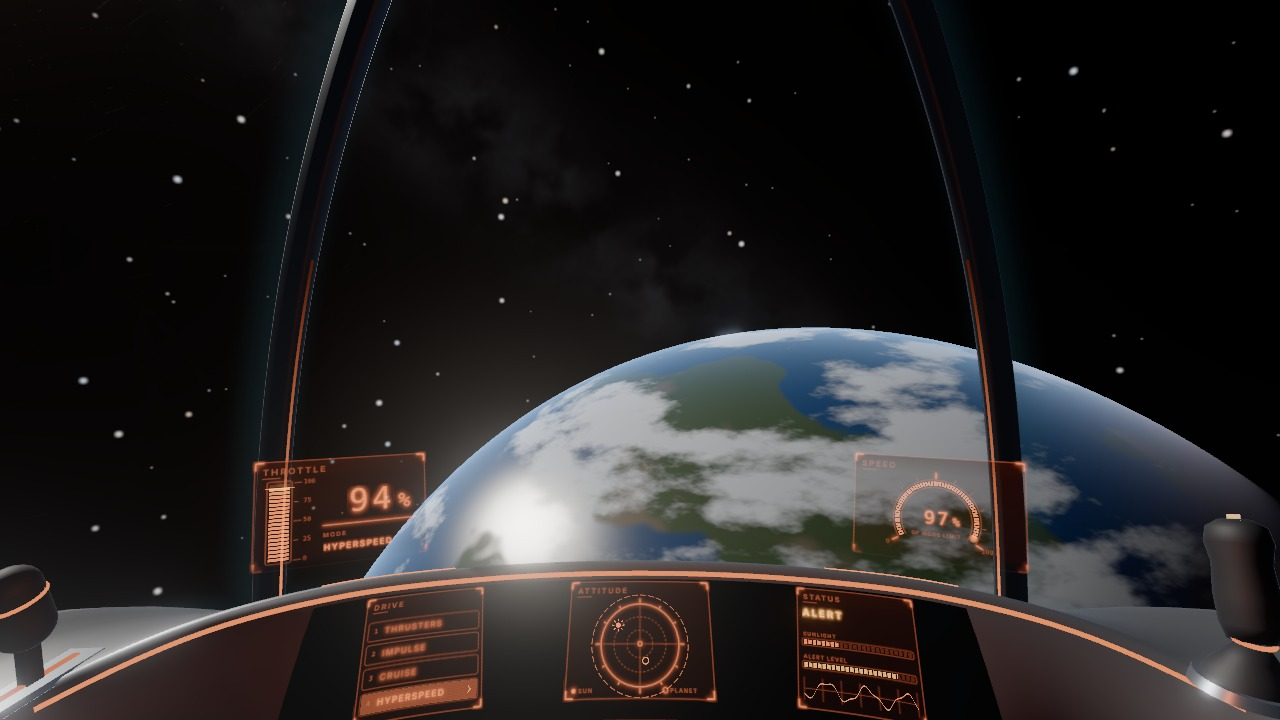
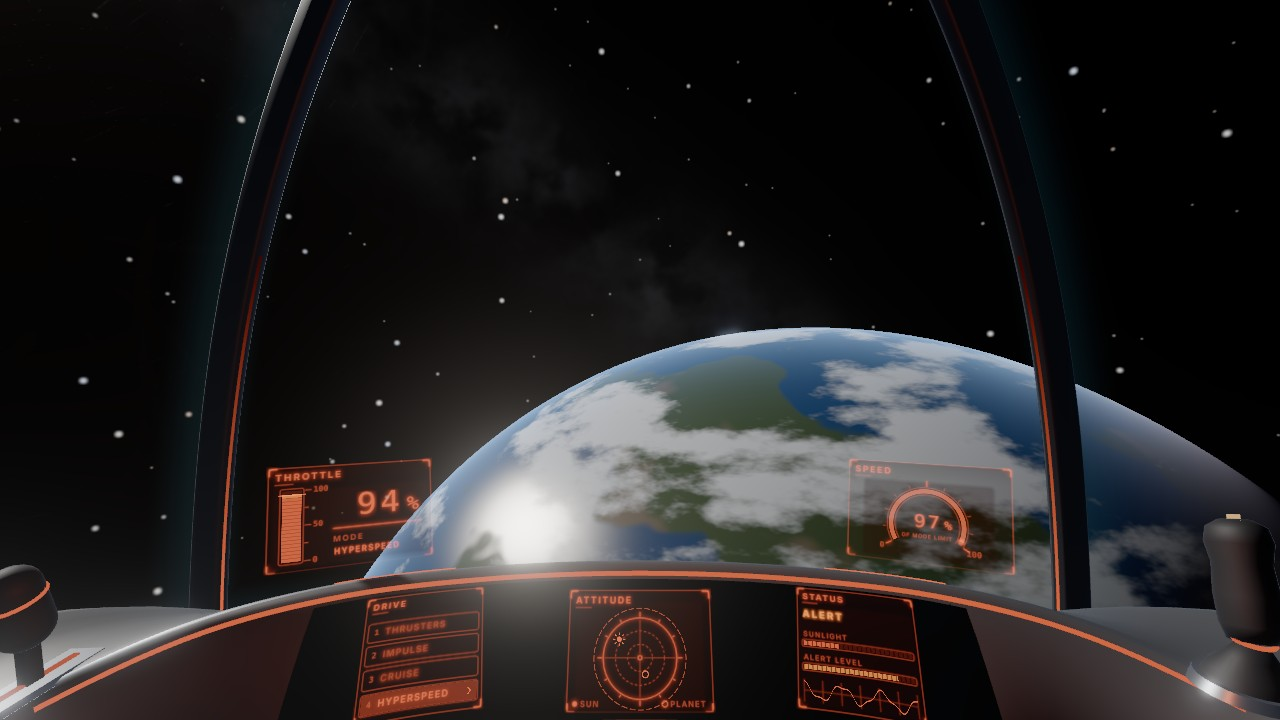
cockpit: locale-aware percent readouts, glyph glow windows, new screenshots
- Percent unit placed per locale pattern (before or after the number, with or
  without a space); the demo exposes relocalize() and the e2e checks a locale
  change redraws the displays.
- Fade the glyph glow toward cell edges so digit and label cells never show as boxes.
- Recaptured docs/media/cockpit_*.jpg (1280x720, 90-107 KB).

Claude-Session: https://claude.ai/code/session_01LjBZ5PwBbUXpZ5Dqgjxyhu

diff --git a/src/render/cockpit/materials.ts b/src/render/cockpit/materials.ts
@@ -442,13 +442,15 @@ function digitsNode(atlas: THREE.Texture, q: N, box: Box, value: N, u: CockpitUn
   const sGlyph = select(sIsDigit.greaterThan(0.5), digitAt(sj), float(10));
   const sFx = select(sIsDigit.greaterThan(0.5), fract(cf), cf.sub(gap).sub(3));
   const sShow = select(sIsDigit.greaterThan(0.5), step(firstDigit, sj), step(gap.add(3), cf));
-  // Unit before the number: digits in cells [1 + gap, 4 + gap), the unit just before the first shown digit.
+  // Unit before the number: digits in cells [1 + gap, 4 + gap); the unit sits at [firstDigit, firstDigit + 1), just
+  // before the first shown digit (over the cells of the hidden leading digits).
   const pc = cf.sub(gap).sub(1);
   const pj = floor(pc);
-  const pIsDigit = step(0, pc);
-  const pGlyph = select(pIsDigit.greaterThan(0.5), digitAt(pj), float(10));
-  const pFx = select(pIsDigit.greaterThan(0.5), fract(pc), cf.sub(firstDigit));
-  const pShow = select(pIsDigit.greaterThan(0.5), step(firstDigit, pj), step(firstDigit, cf).mul(step(cf, firstDigit.add(0.9999))));
+  const pDigit = step(0, pc).mul(step(firstDigit, pj));
+  const pUnit = step(firstDigit, cf).mul(step(cf, firstDigit.add(0.9999))).mul(float(1).sub(pDigit));
+  const pGlyph = select(pDigit.greaterThan(0.5), digitAt(pj), float(10));
+  const pFx = select(pDigit.greaterThan(0.5), fract(pc), cf.sub(firstDigit));
+  const pShow = max(pDigit, pUnit);
   const before = u.pctBefore.greaterThan(0.5);
   const glyph = select(before, pGlyph, sGlyph);
   const fx = clamp(select(before, pFx, sFx), 0, 1);
@@ -457,7 +459,9 @@ function digitsNode(atlas: THREE.Texture, q: N, box: Box, value: N, u: CockpitUn
   const gy = float(DIGITS.y).add(ly.mul(DIGITS.h)).div(ATLAS_H);
   const cont = vec2(lx.mul(cells).mul(DIGITS.glyphW / ATLAS_W), gy);
   const s = texture(atlas, vec2(gx, gy)).grad(cont.dFdx(), cont.dFdy());
-  return vec2(s.r, s.g).mul(inside).mul(show);
+  // The glow of neighbouring glyphs bleeds into a cell; fade it out toward the cell edges so cells never show as boxes.
+  const win: N = smoothstep(0, 0.14, fx).mul(fall(1, 0.86, fx)).mul(smoothstep(0, 0.12, ly)).mul(fall(1, 0.88, ly));
+  return vec2(col(s.r), col(s.g).mul(win)).mul(inside).mul(show);
 }
 
 /** A row of a label strip (mode names / status words) placed into a box. */
@@ -469,7 +473,8 @@ function stripNode(atlas: THREE.Texture, q: N, box: Box, strip: { x: number; y: 
   const sy = float(strip.y).add(row.add(clamp(ly, 0, 1)).mul(strip.rowH)).div(ATLAS_H);
   const cont = vec2(lx.mul(strip.w).div(ATLAS_W), ly.mul(strip.rowH).div(ATLAS_H));
   const s = texture(atlas, vec2(sx, sy)).grad(cont.dFdx(), cont.dFdy());
-  return vec2(s.r, s.g).mul(inside);
+  const win: N = smoothstep(0, 0.12, ly).mul(fall(1, 0.88, ly)).mul(smoothstep(0, 0.03, lx)).mul(fall(1, 0.97, lx));
+  return vec2(col(s.r), col(s.g).mul(win)).mul(inside);
 }
 
 /**

diff --git a/tests/e2e/cockpit.spec.ts b/tests/e2e/cockpit.spec.ts
@@ -20,6 +20,7 @@ interface CockpitKs {
   set(patch: Record<string, unknown>): void;
   stats(): Stats;
   capture(type?: string): string;
+  relocalize(code: string, messages: Record<string, string>): void;
 }
 
 interface Region {
@@ -97,6 +98,8 @@ async function measure(page: Page, rect: [number, number, number, number]): Prom
 
 /** The display cluster under the forward view (attitude, mode and status screens). */
 const CLUSTER: [number, number, number, number] = [0.27, 0.82, 0.73, 1.0];
+/** The throttle pane (left holographic pane). */
+const THROTTLE_DIGITS: [number, number, number, number] = [0.21, 0.64, 0.34, 0.8];
 
 for (const backend of ['webgpu', 'webgl2'] as const) {
   test(`cockpit renders within budget and responds to state: ${backend}`, async ({ page }) => {
@@ -156,6 +159,13 @@ for (const backend of ['webgpu', 'webgl2'] as const) {
     await page.evaluate(() => (window as unknown as { __ks: CockpitKs }).__ks.set({ time: 1.45 }));
     const pulse2 = await measure(page, CLUSTER);
     expect(Math.abs(pulse1.part.r - pulse2.part.r)).toBeGreaterThan(2);
+
+    // A locale change redraws the displays: a pattern with the unit before the number moves the percent sign.
+    await page.evaluate(() => (window as unknown as { __ks: CockpitKs }).__ks.set({ alert: 0, time: 2, reducedMotion: true }));
+    const before = await measure(page, THROTTLE_DIGITS);
+    await page.evaluate(() => (window as unknown as { __ks: CockpitKs }).__ks.relocalize('xx', { 'cockpit.percent': '%\u00a0{value}', 'cockpit.throttle': 'Gas' }));
+    const after = await measure(page, THROTTLE_DIGITS);
+    expect(Math.abs(after.part.b - before.part.b) + Math.abs(after.part.g - before.part.g), 'readout changed').toBeGreaterThan(1);
 
     expect(errors).toEqual([]);
   });

diff --git a/src/spike/cockpitDemo.ts b/src/spike/cockpitDemo.ts
@@ -13,7 +13,7 @@ import { createRenderer, effectiveDepthMode, type BackendRequest, type DepthMode
 import { FrameRenderer } from '../render/frameRenderer';
 import { Cockpit, type CockpitState, type FlightMode } from '../render/cockpit/cockpit';
 import { Rng } from '../core/rng';
-import { t, formatNumber } from '../game/i18n';
+import { t, formatNumber, setLocale } from '../game/i18n';
 
 type N = any;
 
@@ -478,6 +478,11 @@ async function main(): Promise<void> {
     /** Cockpit construction time and the display atlas (debug tooling). */
     timing: { cockpitBuildMs: cockpit.buildMs },
     atlas: () => cockpit.atlasCanvas.toDataURL('image/png'),
+    /** Switch the page locale (messages missing from `messages` fall back to English) and redraw the displays. */
+    relocalize: (code: string, messages: Record<string, string>) => {
+      setLocale(code, messages);
+      cockpit.relocalize();
+    },
     renderOnce: () => render(),
     /** Render and read back in the same task (canvas contents are only valid right after a render). */
     capture: (type = 'image/png', quality = 0.92) => {
